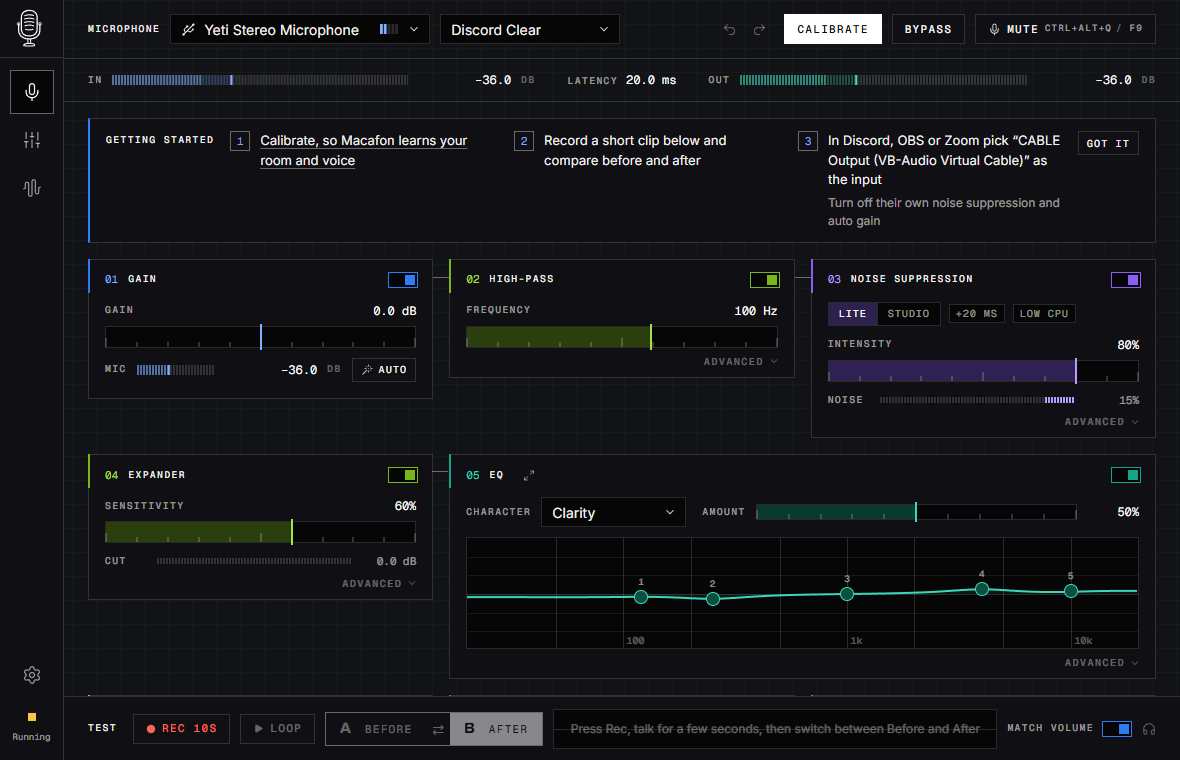
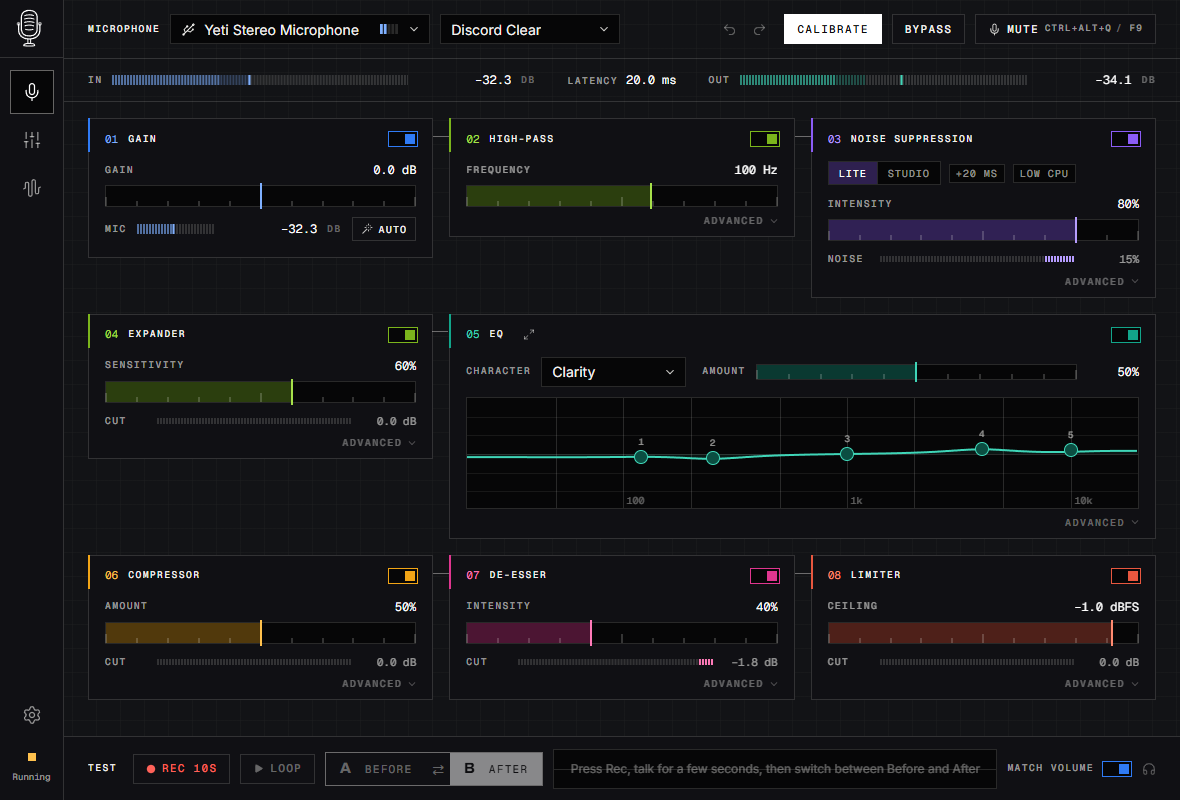
docs: shorten README and show the full microphone chain

diff --git a/README.md b/README.md
@@ -6,247 +6,128 @@
 </p>
 
 <p align="center">
-  <b>Open-source microphone processing and per-app audio mixer for Windows 11. Linux support is experimental.</b>
+  <b>Microphone processing, per-app mixer and soundpad for Windows 11.</b>
 </p>
 
 <p align="center">
   <img alt="License: GPL-3.0-only" src="https://img.shields.io/badge/license-GPL--3.0--only-blue">
-  <img alt="Rust 2024" src="https://img.shields.io/badge/rust-2024-orange">
   <img alt="Windows 11: working" src="https://img.shields.io/badge/Windows_11-working-success">
   <img alt="Linux: experimental" src="https://img.shields.io/badge/Linux-experimental-orange">
 </p>
 
-![Windows microphone screen](docs/images/microphone.png)
+![Microphone screen](docs/images/microphone.png)
 
-## What it does
+## Features
 
-Macafon is a native Rust application with four screens: **Microphone, Mixer, Soundpad and Settings**.
-Windows 11 is the working platform; Linux (PipeWire) is experimental.
+**Microphone.** Your microphone goes through Gain → High-pass → noise suppression → Expander → EQ →
+Compressor → De-esser → Limiter and comes out as a virtual microphone for Discord, OBS, Zoom or games.
 
-**Microphone processing.** Macafon takes your physical microphone, runs it through a chain —
-Gain → High-pass → AI noise suppression → Expander → EQ → Compressor → De-esser → Limiter — and exposes
-the result as a virtual microphone for Discord, OBS, Zoom or games. On Windows, select
-**CABLE Output (VB-Audio Virtual Cable)** in those apps.
+- One-click calibration tunes the chain to your room and voice.
+- Record a clip and switch **Before ⇄ After** to hear every change.
+- AI noise suppression runs locally: *Lite* (RNNoise) or *Studio* (DeepFilterNet 3).
+- Built-in and custom presets, a fallback microphone, per-microphone settings.
 
-- Simple module controls, with detailed tuning under *Advanced*.
-- Two-step auto-calibration (stay silent, read a sentence) sets gain, expander, high-pass and noise suppression.
-- Record a few seconds and switch **Before ⇄ After** while you tune — every change is heard immediately.
-- Noise suppression *Lite* (RNNoise) or *Studio* (DeepFilterNet 3), running locally on the CPU.
-- Six built-in presets plus your own, per-microphone profiles, hot-plug and a fallback microphone.
-
-**Per-app mixer.** Start with Main, Voice and Music; customize up to eight channels in total. Apps show up
-automatically and can be dragged between channels; Macafon remembers where each app belongs. On Windows,
-channels are volume groups over audio sessions: moving an app changes which fader controls it, not its
-audio device. Channels and Master have no EQ or effects. Choose an output device or an output priority
-list for automatic switching when devices connect or disconnect.
+**Mixer.** Apps appear automatically; drag them between channels (Main, Voice, Music, up to eight) to
+control their volume with one fader. Pick the output device or a priority list for automatic switching.
 
 ![Mixer screen](docs/images/mixer.png)
 
-**Windows controls.** Master follows the actual Windows volume and mute in both directions. Every action
-supports primary and secondary hotkeys, with separate left/right Ctrl and Alt. Volume shortcuts repeat
-while held and use your chosen step. Push-to-talk and push-to-mute work with the window closed.
-Assigned shortcuts appear beside the controls.
+**Soundpad.** Play sounds into your voice chat — you hear them in your headphones too.
 
-**Background controls.** Right-click the Windows tray icon for a quick panel with microphone, preset
-and volume controls. A global hotkey opens the horizontal mixer overlay. The configurable hotkey popup
-(OSD) shows volume, mute, bypass and preset changes; choose its style, position and active or primary
-monitor in Settings. The daemon keeps processing with the main window closed. Autostart, CLI commands
-and **Doctor** diagnostics for device, cable and audio setup checks are included.
+- Drop audio files on the window or put them in `Music\Macafon Sounds`; subfolders become categories.
+- MP3, WAV, OGG, FLAC, M4A, AAC. Search, sort, favorites, per-sound volume and hotkeys.
+- Your voice processing is not applied to sounds. Optionally mute your voice while a sound plays.
 
-**Optional DAC controls.** When an iBasso Jr. Macaron is connected, device settings expose hardware volume,
-balance, digital filter, gain and output mode. Volume is read from the device and follows its buttons.
+![Soundpad screen](docs/images/soundpad.png)
 
-**Soundpad (Windows).** Play sounds into your voice chat and your headphones at the same time, with
-separate output switches and levels. The library lives in your `Music\Macafon Sounds` folder; its
-first-level subfolders are categories. Copy files there, use **Add files**, or drag and drop audio
-anywhere on the window. MP3, WAV, OGG, FLAC, M4A and AAC are supported.
-
-- Search, sort (newest first by default), favorites, and category filters.
-- Per-sound volume and primary/secondary global hotkeys; rename, move and delete sounds, and manage categories.
-- Play/stop, pause/resume, repeat, seek and random playback; one sound plays at a time.
-- **Mute my voice while playing** fades your voice out while a sound plays into the microphone.
-- The hotkey overlay has an expandable Soundpad panel with search and category filters. It starts
-  collapsed, remembers your search and category, and lets Enter play the first match.
-
-![Windows Soundpad screen](docs/images/soundpad.png)
+**Always at hand.** Global hotkeys (push-to-talk, mute, volume, sounds) work with the window closed and
+show a small on-screen popup. The tray icon opens a quick panel; a hotkey opens an overlay with volumes
+and a searchable soundpad. **Doctor** checks your audio setup.
 
 <details>
-<summary>Settings, tray quick panel and expanded hotkey overlay (Windows mock UI)</summary>
+<summary>More screenshots</summary>
 
-![Windows Settings screen](docs/images/settings.png)
+![Settings](docs/images/settings.png)
 ![Tray quick panel](docs/images/tray-panel.png)
-![Hotkey overlay with Soundpad search](docs/images/hotkey-overlay.png)
+![Hotkey overlay with soundpad](docs/images/hotkey-overlay.png)
 
 </details>
 
-Screenshots show the current source in browser mock mode, with sample devices, apps and sounds.
+## Install on Windows 11
 
-## Status
+1. Download `Macafon_*_x64-setup.exe` from the [latest release](https://github.com/Mar1kLab/Macafon/releases/latest).
+   No administrator rights needed.
+2. Install the free [VB-CABLE](https://vb-audio.com/Cable/) driver (run `VBCABLE_Setup_x64.exe` as
+   administrator, then reboot). Macafon uses it as your virtual microphone.
+3. Open Macafon and follow the setup: microphone, calibration, mixer.
+4. In Discord, OBS or Zoom select **CABLE Output (VB-Audio Virtual Cable)** as the microphone.
 
-**Windows 11: working.** The current source includes the M3 Windows implementation and Soundpad.
-The latest published installer is **v0.1.0 (October 17, 2026)**; Soundpad and its overlay panel were added
-after that release. Build from source to use those additions until a newer installer is published.
+Macafon must keep running in the tray — without it the cable is silent. Uninstalling restores your
+original audio devices and app volumes.
 
-**Linux: experimental.** The PipeWire backend, virtual microphone and channel effects are implemented,
-but Linux builds and desktop integration need further validation. Linux is not covered by the Windows
-build workflow.
+> The published v0.1.0 installer predates Soundpad. Build from source to try it until the next release.
 
-Latency depends on the microphone and VB-CABLE buffers. Measurements and remaining release criteria
-are recorded in the [release checklist](docs/qa/release-checklist.md).
+## Linux (experimental)
 
-## Download for Windows 11
-
-1. Open the [latest release](https://github.com/Mar1kLab/Macafon/releases/latest)
-   (currently [v0.1.0](https://github.com/Mar1kLab/Macafon/releases/tag/v0.1.0)).
-2. Download and run `Macafon_0.1.0_x64-setup.exe` from **Assets**. `SHA256SUMS.txt` contains its SHA-256 checksum.
-3. For the virtual microphone, download the free (donationware) [VB-CABLE](https://vb-audio.com/Cable/)
-   from VB-Audio. Extract it, run `VBCABLE_Setup_x64.exe` as administrator, then reboot. Macafon does
-   not bundle this driver.
-4. Open Macafon and follow first-run onboarding: choose your microphone, calibrate, listen to the A/B
-   test, and set up the mixer and background operation. If the cable is missing, onboarding provides
-   the installation step and resumes after reboot. Setup can be skipped and reopened from Settings.
-5. In Discord, OBS, Zoom or your game, select **CABLE Output (VB-Audio Virtual Cable)** as the input.
-   Keep Macafon running: the cable is silent when the daemon is stopped.
-
-The per-user installer does not require administrator rights for Macafon itself; installing
-the separate VB-CABLE driver does. The current installer is unsigned.
-
-An upgrade stops the running daemon, replaces the binaries and starts it again, keeping settings and
-autostart. Uninstall restores default audio devices and managed application volumes; explicit changes
-to system Master volume remain yours.
-
-## Platforms
-
-| | Windows 11 | Linux (experimental) |
-|---|---|---|
-| Virtual microphone | Free VB-CABLE, installed separately | Created by Macafon in PipeWire |
-| Mixer | Up to eight application volume groups over Windows audio sessions | Virtual channels with EQ and effects |
-| Master | System output volume and mute | Master gain over Macafon channels |
-| Channel effects | Unavailable in Windows sessions mode; the future extra-cable mode is disabled | EQ, noise suppression, compressor and limiter |
-| Soundpad | Library, voice-chat and headphone playback, overlay panel | Unavailable |
-| Requirements | VB-CABLE for microphone processing; WebView2 for the UI | PipeWire >= 1.0, WirePlumber >= 0.5 |
-
-Windows architecture: [ADR-0004](docs/adr/0004-windows-free-vb-cable.md).
-
-## Building
-
-### Windows 11
-
-Install stable Rust, Node.js 24, Python 3.12 or newer, and the
-[Tauri Windows prerequisites](https://v2.tauri.app/start/prerequisites/#windows)
-(Microsoft C++ Build Tools with Desktop development with C++, and WebView2).
-The workflow uses Rust 1.99.0 and pnpm 12.11.2.
-
-```powershell
-npm install --global corepack@0.35.0
-corepack enable
-corepack pnpm -C apps/macafon-ui install --frozen-lockfile
-python tools/package-windows.py            # target/release/bundle/nsis/
-python tools/package-windows.py --install  # build, then install or upgrade
-```
-
-The manual [Windows workflow](.github/workflows/windows-build.yml) runs the same packaging script on a
-GitHub-hosted Windows runner and uploads the installer and checksum. It does not install the app or
-VB-CABLE on the runner.
-
-### Linux (experimental)
-
-You need stable Rust, Node.js with pnpm, Python 3 and the platform dependencies:
+The PipeWire backend creates its own virtual microphone and supports channel EQ and effects, but is
+less tested. Soundpad is Windows-only for now. Requires PipeWire ≥ 1.0 and WirePlumber ≥ 0.5.
 
 ```sh
-# Ubuntu / Debian
 sudo apt install build-essential pkg-config libclang-dev libpipewire-0.3-dev pipewire-bin \
                  libwebkit2gtk-4.1-dev libgtk-3-dev libdbus-1-dev
 corepack pnpm -C apps/macafon-ui install --frozen-lockfile
-python3 tools/package-linux.py     # deb, rpm and AppImage under target/release/bundle/
+python3 tools/package-linux.py     # deb, rpm and AppImage in target/release/bundle/
 ```
-
-Or run from source:
-
-```sh
-cargo build --release -p macafond -p macafon-cli
-target/release/macafond devices
-target/release/macafond run --input '<physical node.name>'
-corepack pnpm -C apps/macafon-ui tauri dev
-```
-
-Select **Macafon Microphone** in your apps. An experimental AUR recipe is under `packaging/aur/`.
 
 ## Command line
 
 ```sh
 macafon ctl status
-macafon ctl preset broadcast        # natural, discord-clear, noisy-room, broadcast, warm-podcast, raw
-macafon ctl mute                    # toggle; also mute on|off, bypass on|off
-macafon ctl mic mute toggle         # for desktop shortcuts
+macafon ctl preset broadcast            # natural, discord-clear, noisy-room, broadcast, warm-podcast, raw
+macafon ctl mic mute toggle
 macafon ctl channel voice volume +5
-macafon ctl channel master volume -5
-macafon ctl apps move bin:firefox music
-macafon ctl doctor
 macafon ctl soundpad list
-macafon ctl soundpad play "Memes/airhorn.mp3"  # use an id from list
+macafon ctl soundpad play "Memes/airhorn.mp3"
 macafon ctl soundpad stop
-macafon ctl soundpad pause                   # pause/resume
-macafon ctl soundpad random                  # optional category argument
+macafon ctl doctor
 ```
 
-## Development
+## Build from source (Windows)
 
-The UI runs in a regular browser against a mock daemon — no audio stack needed:
+Needs stable Rust, Node.js 24, Python 3.12+ and the
+[Tauri prerequisites](https://v2.tauri.app/start/prerequisites/#windows).
 
-```sh
+```powershell
+corepack enable
 corepack pnpm -C apps/macafon-ui install --frozen-lockfile
-corepack pnpm -C apps/macafon-ui dev
+python tools/package-windows.py            # installer in target/release/bundle/nsis/
+python tools/package-windows.py --install  # build and install
 ```
 
-Open `http://127.0.0.1:1420/?platform=windows` for the Windows mock UI,
-`?platform=windows&screen=soundpad` for Soundpad, or
-`?platform=windows&view=quick-panel&mode=overlay` for the hotkey overlay.
-Use `corepack pnpm -C apps/macafon-ui tauri dev` for the native UI with the real daemon.
-
-Checks remain targeted and local. GitHub Actions currently provides the manual Windows installer build:
+The UI also runs in a browser with a mock daemon, no audio stack needed:
 
 ```sh
-cargo fmt
-cargo clippy -p <crate> -- -D warnings
-cargo test -p <crate>
-pnpm -C apps/macafon-ui check
-python3 tools/tests/control-smoke.py   # Linux: a private PipeWire graph, the user's audio is untouched
+corepack pnpm -C apps/macafon-ui dev       # http://127.0.0.1:1420/?platform=windows
 ```
 
-Start with [AGENTS.md](AGENTS.md) — the contributor guidelines, including the hard real-time rules for
-audio code.
-
-The Cargo workspace is organized as follows:
+Contributors: start with [AGENTS.md](AGENTS.md). Requirements are in the [PRD](docs/PRD.md), the
+visual language in the [design system](docs/design/design-system.md), architecture decisions in
+[docs/adr](docs/adr/).
 
 | Path | Purpose |
 |---|---|
-| `apps/macafond` | Background daemon, tray, hotkeys and control server |
-| `apps/macafon-cli` | `macafon` launcher and CLI |
-| `apps/macafon-ui` | Svelte 5 UI and Tauri v2 shell |
-| `crates/macafon-dsp`, `macafon-studio`, `macafon-engine` | DSP, Studio noise suppression and audio engine |
-| `crates/macafon-soundpad` | Sound library, decoding, caching and playback |
-| `crates/macafon-backend*` | Shared backend API, Windows WASAPI and experimental PipeWire backends |
-| `crates/macafon-ipc`, `macafon-config`, `macafon-apps` | Protocol/generated UI types, settings/presets and app rules |
-| `tools`, `packaging`, `docs` | Local checks, installers and project documentation |
-
-| Document | |
-|---|---|
-| [Product requirements](docs/PRD.md) | Requirements and IDs, parameter ranges, architecture |
-| [Design system](docs/design/design-system.md) | Tokens, typography, components |
-| [Architecture decisions](docs/adr/) | ADR-0003 Linux channels, ADR-0004 Windows on VB-CABLE |
-| [Daemon, protocol and config](docs/development/daemon.md) | IPC methods, config, calibration, A/B |
-| [Microphone chain](docs/development/microphone-chain.md) · [Mixer](docs/development/mixer.md) · [UI](docs/development/ui.md) | Implementation notes |
-| [Windows port](docs/development/windows-m3.md) | WASAPI path, measurements, installer |
+| `apps/macafond` | Background daemon: audio, tray, hotkeys |
+| `apps/macafon-cli` | `macafon` command line |
+| `apps/macafon-ui` | Svelte 5 + Tauri v2 UI |
+| `crates/macafon-dsp`, `macafon-studio`, `macafon-engine` | DSP chain, noise suppression, audio engine |
+| `crates/macafon-soundpad` | Sound library, decoding, playback |
+| `crates/macafon-backend*` | Windows (WASAPI) and Linux (PipeWire) backends |
+| `crates/macafon-ipc`, `macafon-config`, `macafon-apps` | Protocol, settings, app rules |
 
 ## Privacy and license
 
-Audio processing and Soundpad playback run locally. No accounts, telemetry, cloud audio processing or
-background network requests. Fonts and noise-suppression models are bundled. The PRD permits only an
-opt-in update check; downloads and driver installation are initiated by the user.
+Everything runs locally: no accounts, telemetry or network requests.
 
-The application is licensed under [GPL-3.0-only](LICENSE). The `macafon-dsp` and `macafon-studio`
-crates are available under MIT OR Apache-2.0. Noise suppression uses
-[nnnoiseless](https://github.com/jneem/nnnoiseless) (RNNoise) and
-[DeepFilterNet](https://github.com/Rikorose/DeepFilterNet); VB-CABLE is a separate product by
-[VB-Audio](https://vb-audio.com/) and is not distributed with Macafon.
+[GPL-3.0-only](LICENSE); `macafon-dsp` and `macafon-studio` are MIT OR Apache-2.0. Noise suppression uses
+[RNNoise](https://github.com/jneem/nnnoiseless) and [DeepFilterNet](https://github.com/Rikorose/DeepFilterNet).
+VB-CABLE is a separate product by [VB-Audio](https://vb-audio.com/) and is not bundled.
